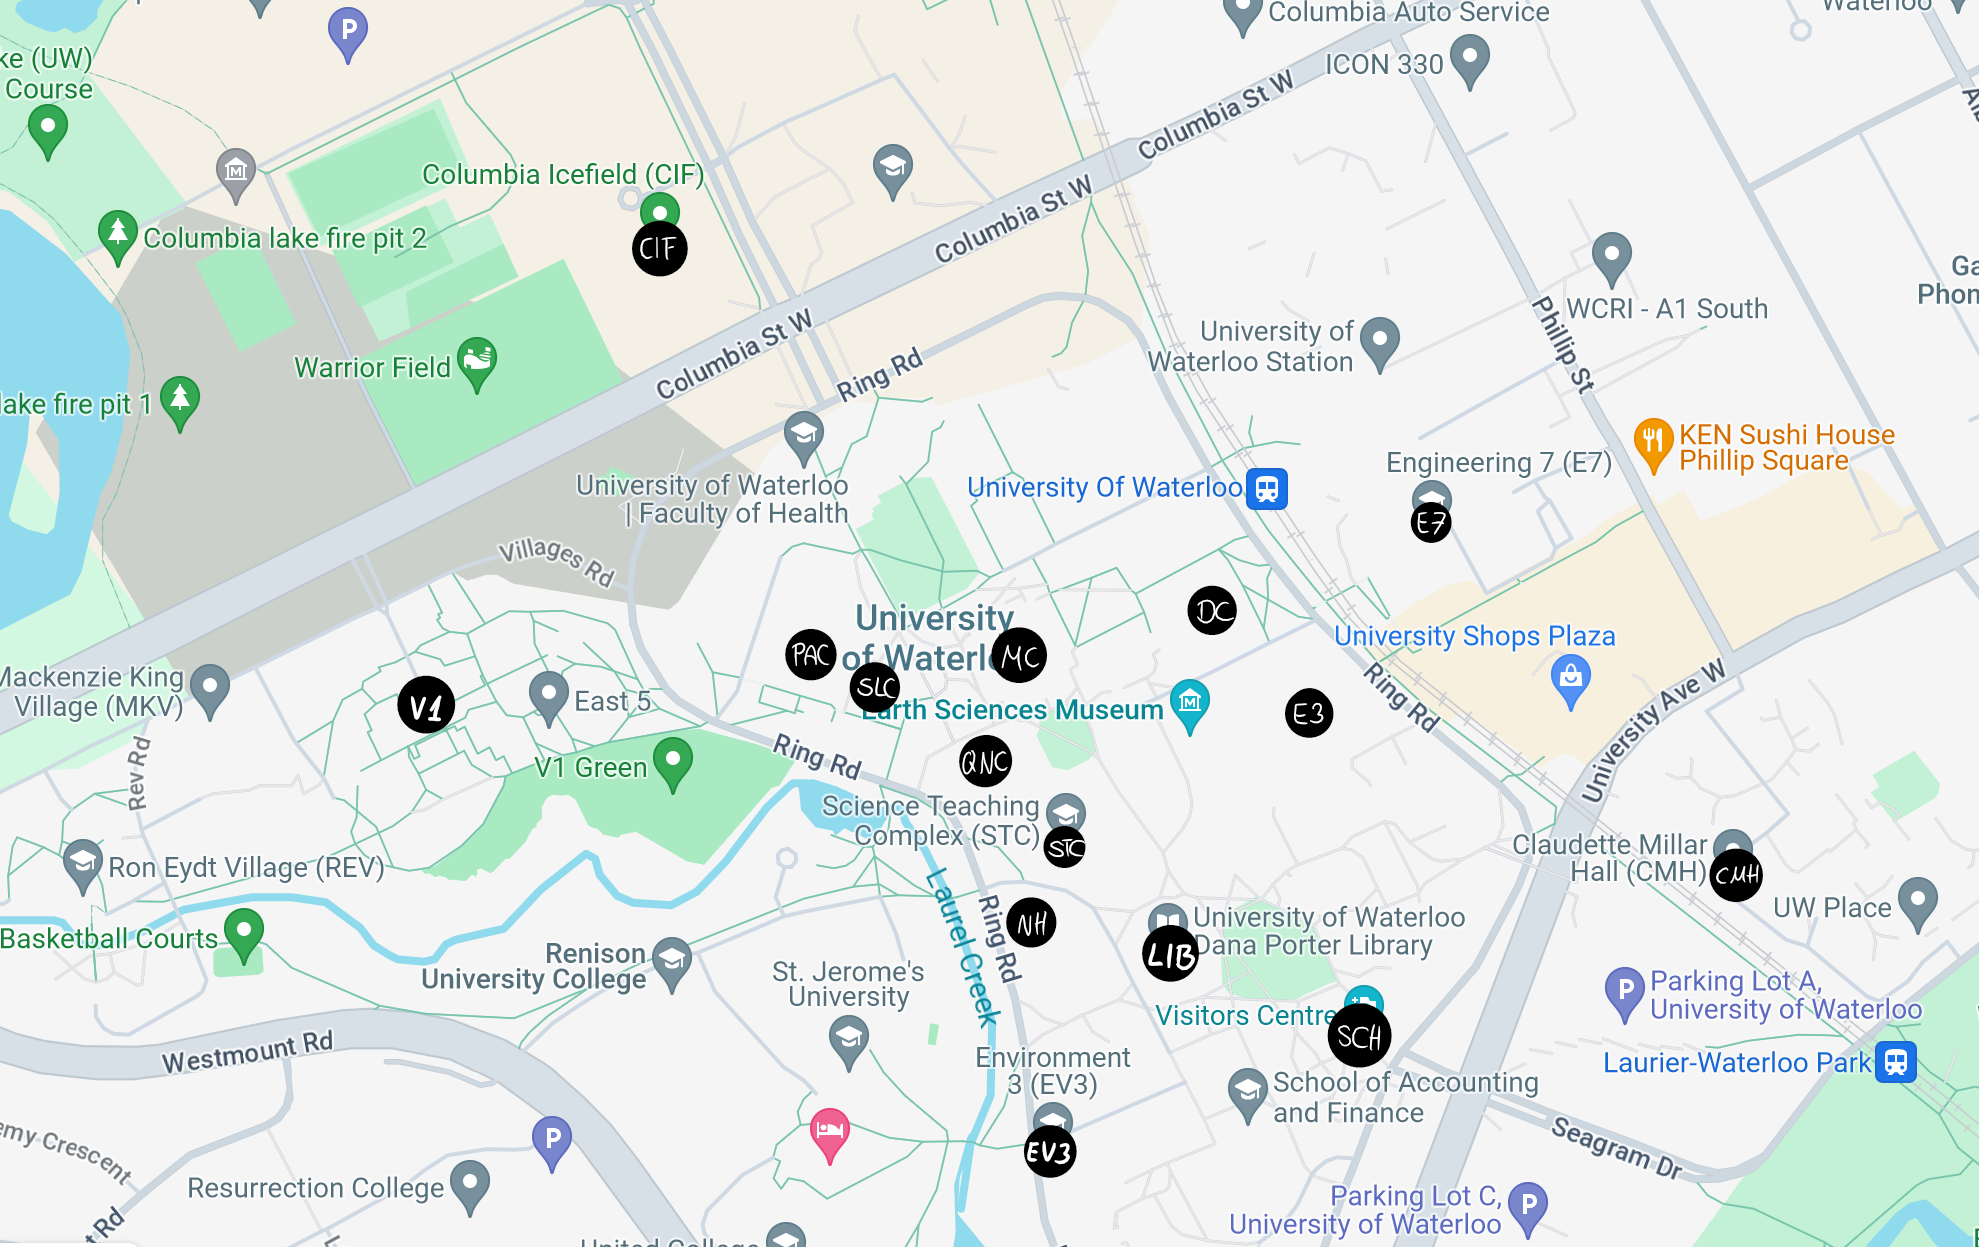
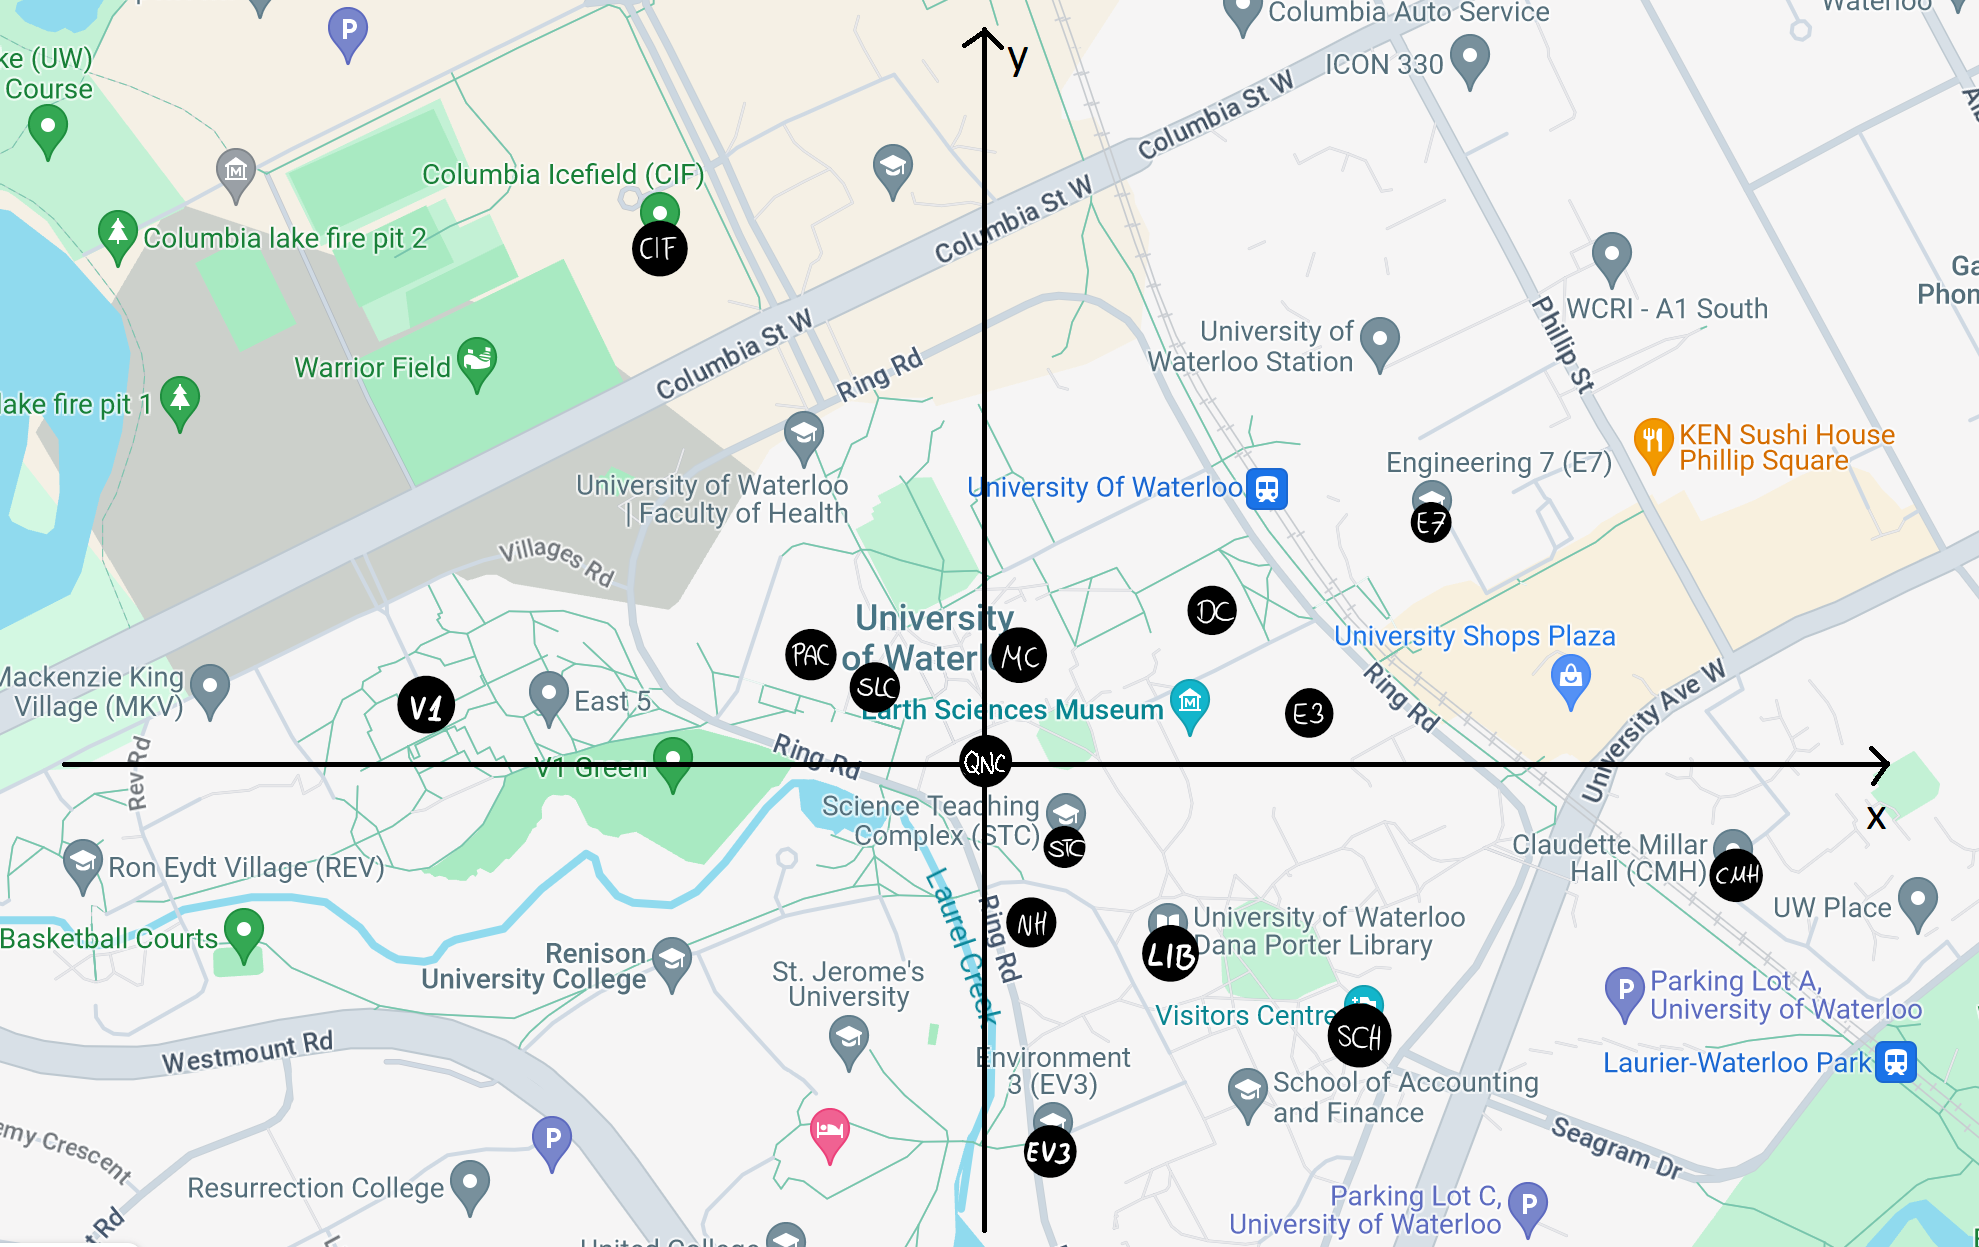
Added coordinates of campus buildings
- createGraph.py now contains an array "coordinates" with the campus building coordinates
- nodeMap.png now shows the axis of the coordinate system with QNC as center
- DisMapCampus.xlsx now contains the coordinates as well

Changed region(s): [[0.0308, 0.6095, 0.9555, 0.6704], [0.4932, 0.0305, 0.524, 0.0609]]

diff --git a/createGraph.py b/createGraph.py
@@ -22,7 +22,7 @@ import numpy as np
 
 # stores the distances (in m) from one building on the UWaterloo campus to another
 #          CIF V1	CMH	  NH   E7    MC	 PAC  SLC  QNC	LIB	 DC	  E3   EV3	STC	SCH                 IDs
-dist_map = [[0, 430, 1130, 690, 750, 500, 380, 470, 570, 780, 590, 730, 900, 630, 930],  # CIF       [0]
+dist_map = [[0, 430, 1130, 690, 750, 500, 380, 470, 570, 780, 590, 730, 900, 630, 930], # CIF       [0]
            [430, 0, 1120, 540, 860, 490, 320, 370, 470, 650, 640, 730, 660, 550, 820],  # V1        [1]
            [1130, 1120, 0, 600, 400, 650, 820, 740, 640, 490, 550, 400, 620, 560, 340], # CMH       [2]
            [690, 540, 600, 0, 490, 240, 330, 230, 140, 120, 340, 300, 200, 120, 290],   # NH        [3]
@@ -37,6 +37,26 @@ dist_map = [[0, 430, 1130, 690, 750, 500, 380, 470, 570, 780, 590, 730, 900, 630
            [900, 660, 620, 200, 630, 450, 510, 410, 350, 200, 510, 440, 0, 330, 270],   # EV3       [12]
            [630, 550, 560, 120, 380, 140, 270, 190, 70, 160, 210, 210, 330, 0, 310],    # STC       [13]
            [930, 820, 340, 290, 440, 440, 570, 490, 370, 170, 420, 270, 270, 310, 0]]   # SCH       [14]
+  
+# stores the coordinates of each campus building, where QNC is the center of the coordinate system
+# Note: The coordinates do not relate to any units (m, km, etc.), they were estimatet using the pixel coordinates of each building on a screenshot of Google Maps
+#              [  x ,  y ]   Building   IDs
+coordinates = [[-325,-515], # CIF       [0]
+               [-513,-55],  # V1        [1]
+               [738,115],   # CMH       [2]
+               [50,156],    # NH        [3]
+               [446,-244],  # E7        [4]
+               [40,-123],   # MC        [5]
+               [-175,-111], # PAC       [6]
+               [-112,-78],  # SLC       [7]
+               [0,0],       # QNC       [8]
+               [188,187],   # LIB (DP)  [9]
+               [227,-157],  # DC        [10]
+               [326,-55],   # E3        [11]
+               [65,382],    # EV3       [12]
+               [78,82],     # STC       [13]
+               [377,270]]   # SCH       [14]
+
 
 # ---------------------------------------------------------------------------------------------------------------------------------------
 #                                                CampusGraph Class
